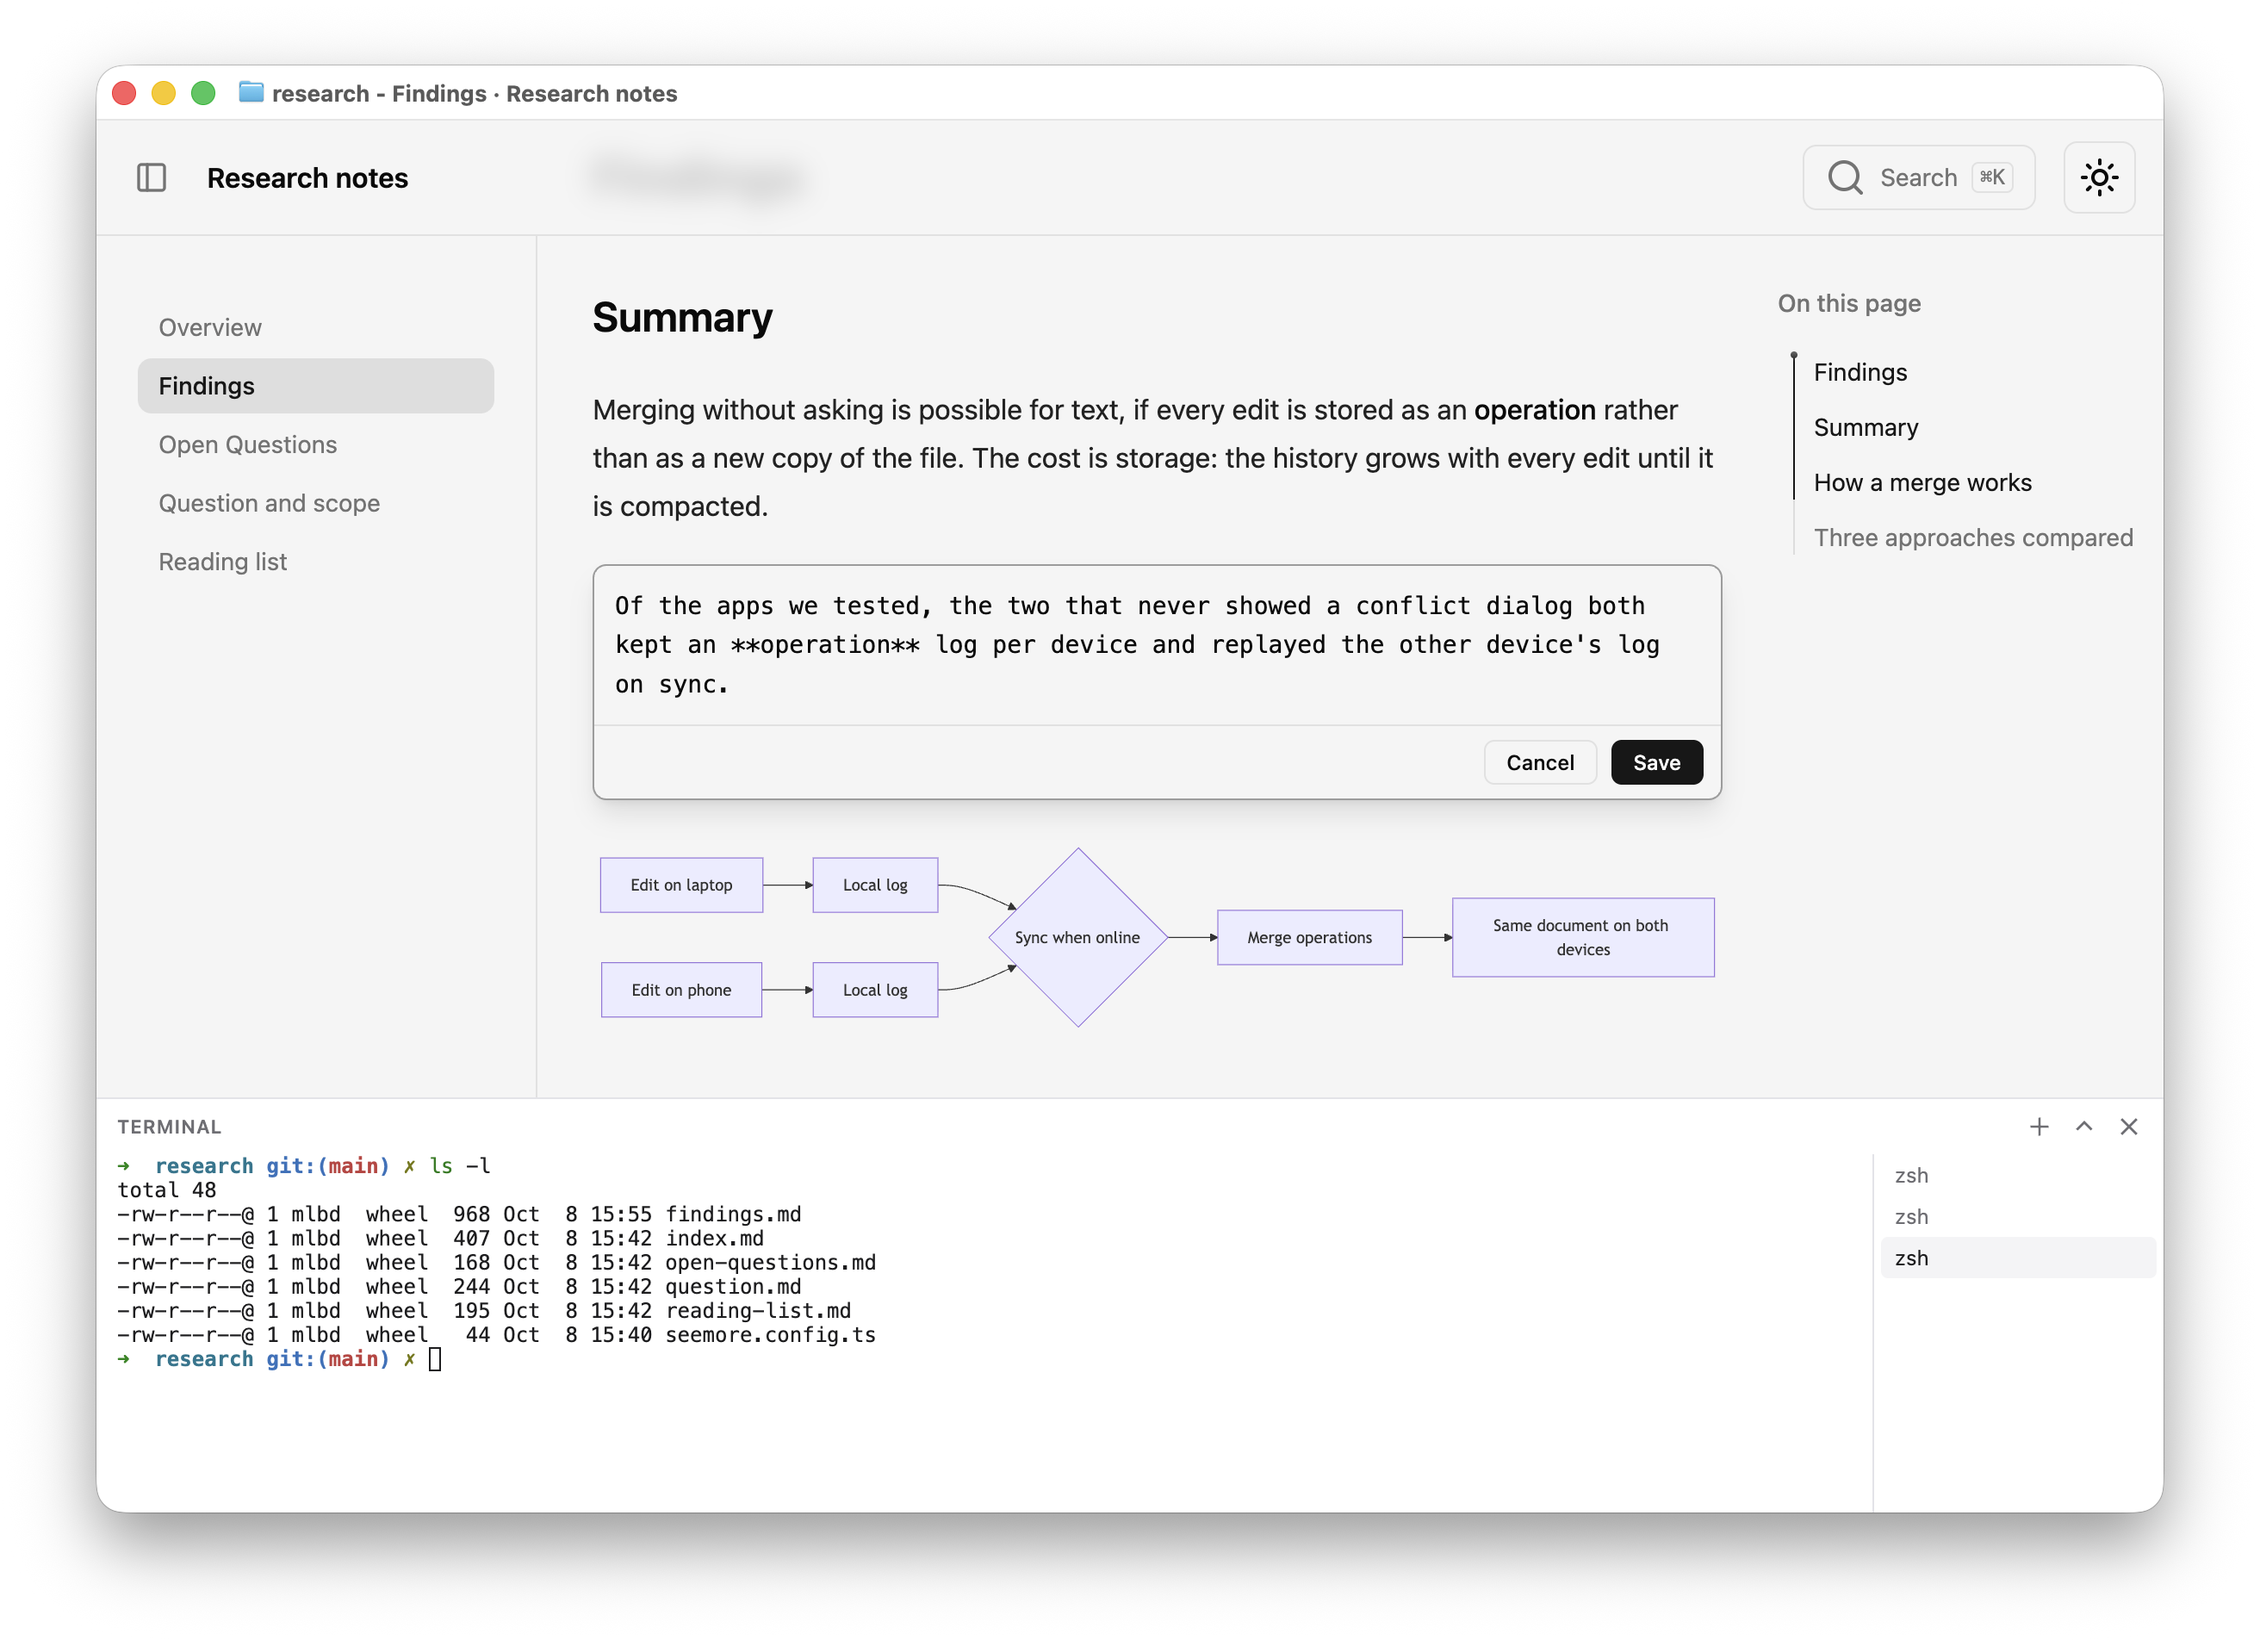
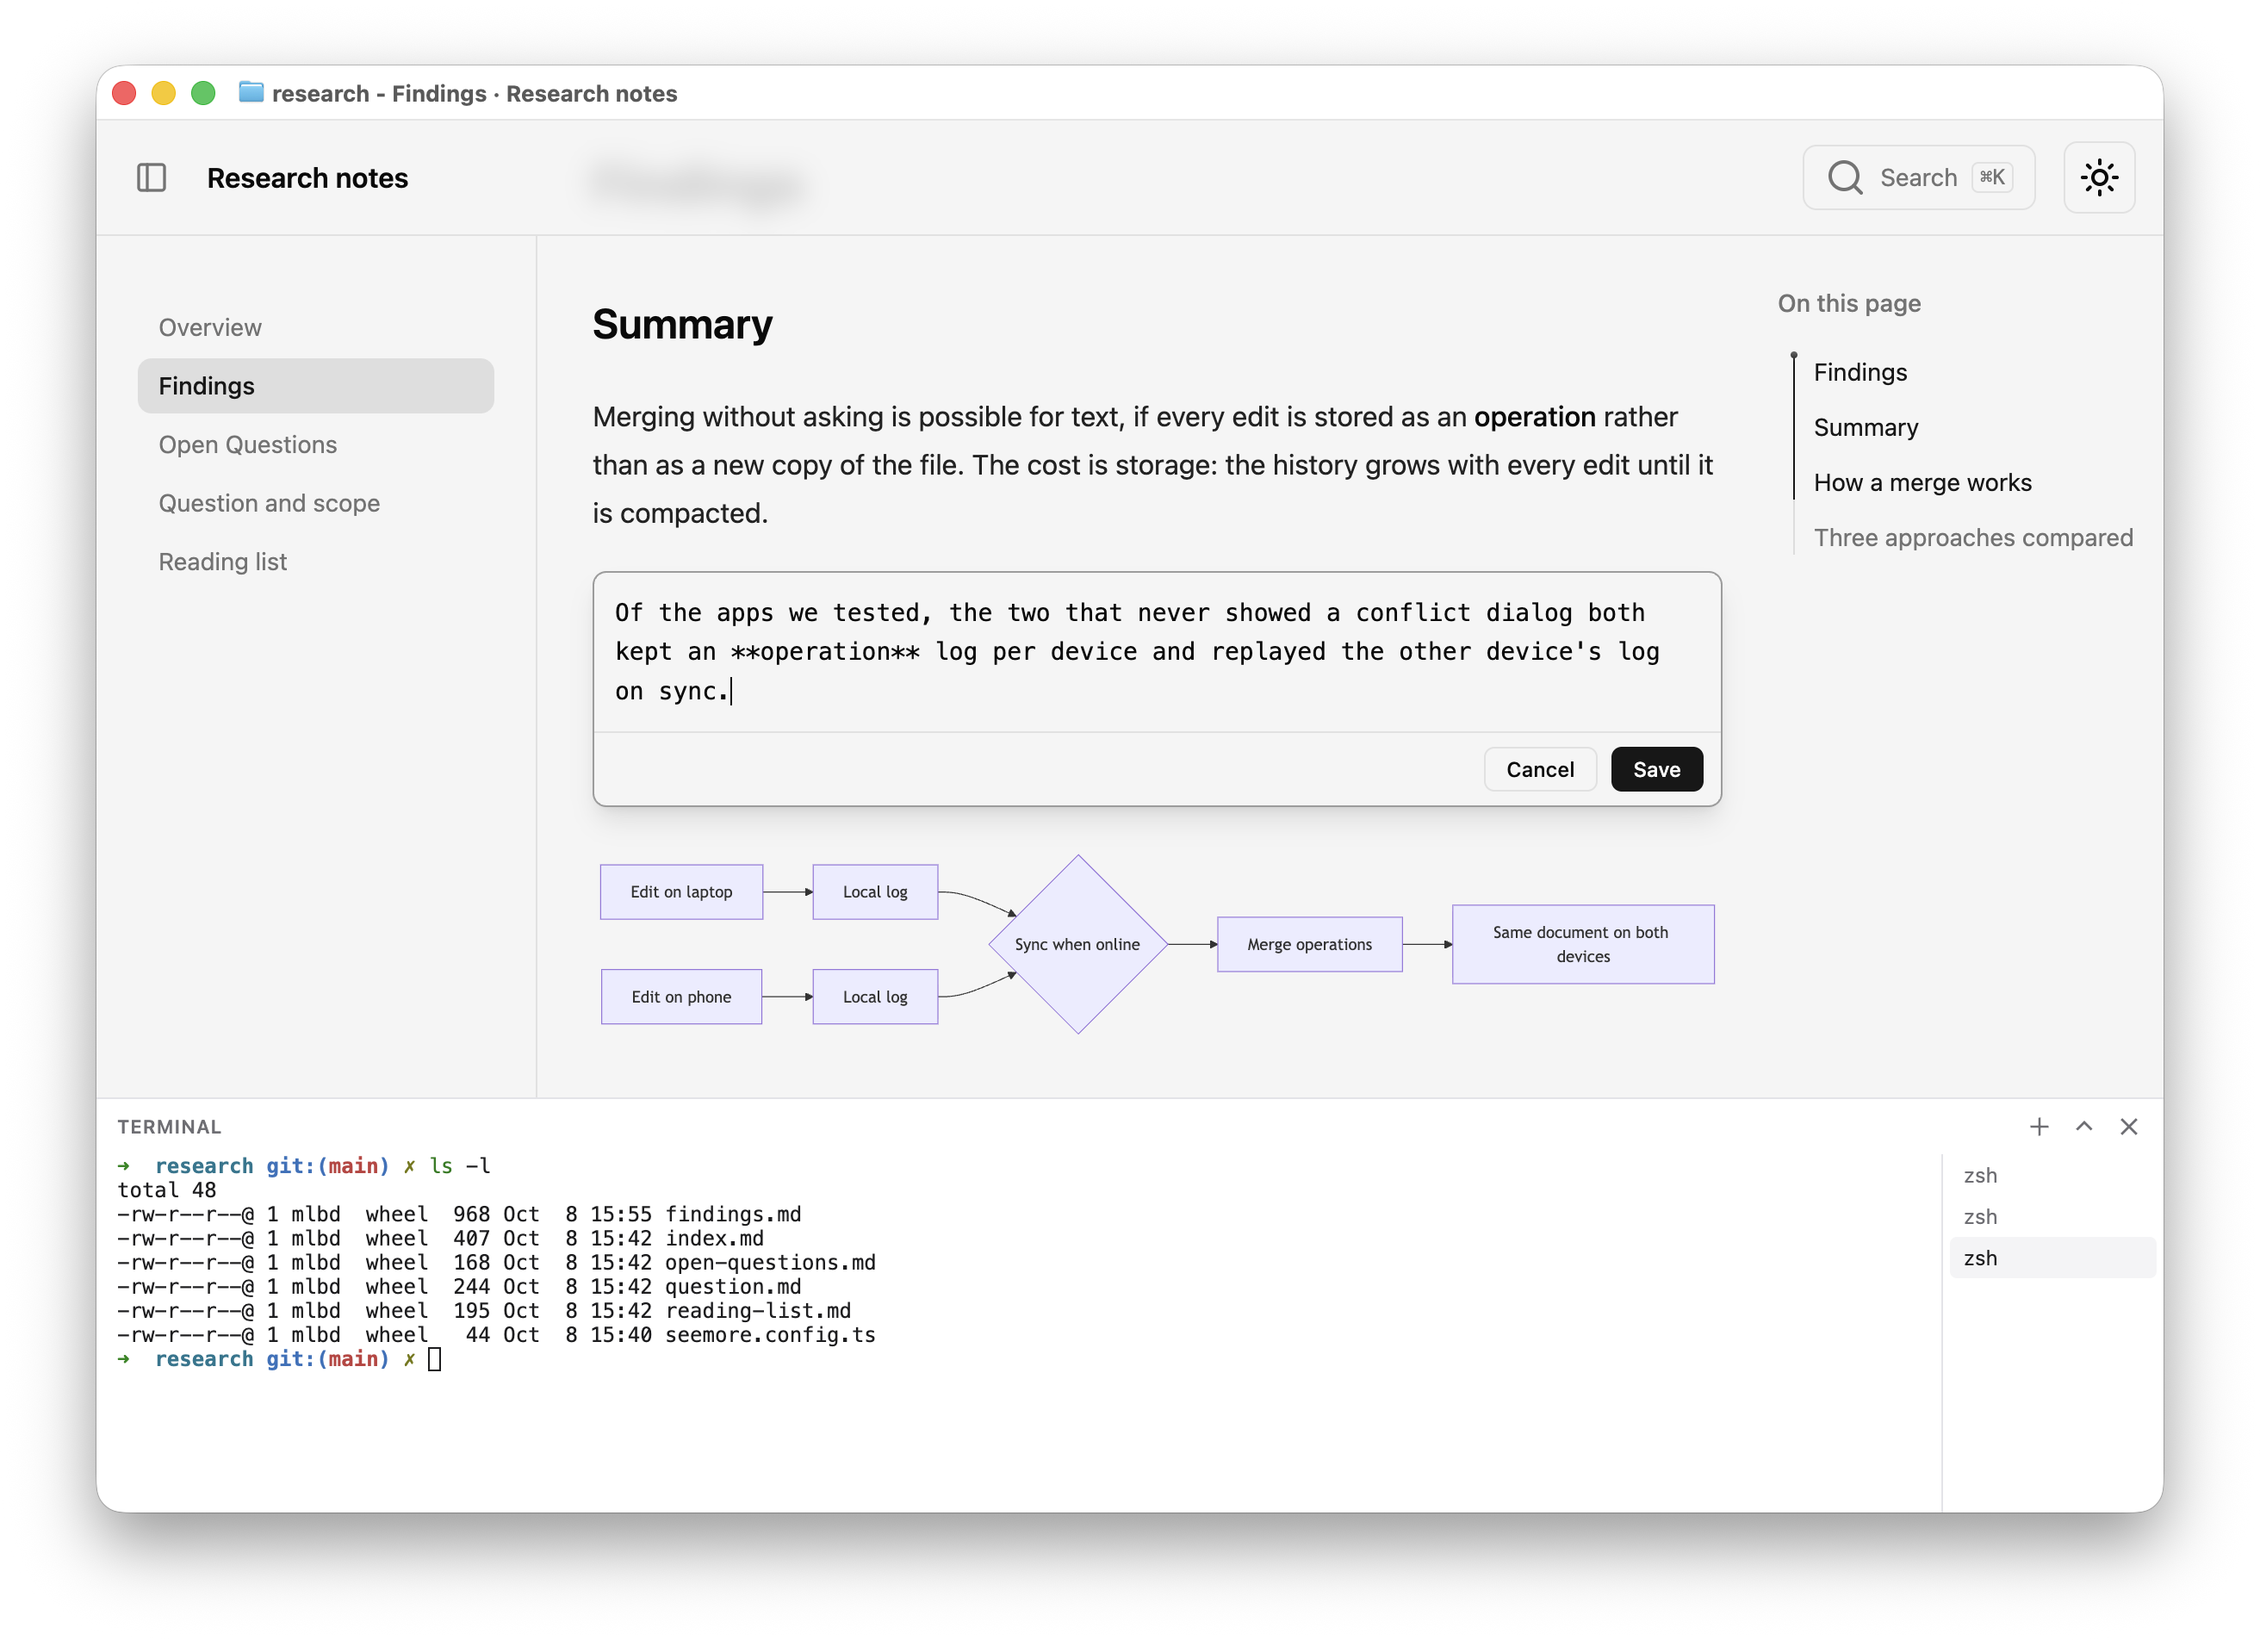
feat(desktop): narrower terminal tabs list; refresh the desktop screenshot

diff --git a/packages/desktop/src/terminal/terminal.css b/packages/desktop/src/terminal/terminal.css
@@ -113,7 +113,7 @@ body.many #kill-active {
 }
 #tabs {
   display: none;
-  width: 160px;
+  width: 120px;
   flex: none;
   margin: 0;
   padding: 0 4px;
